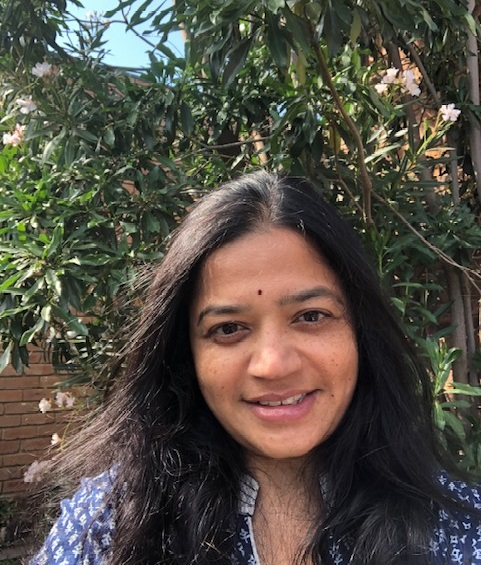
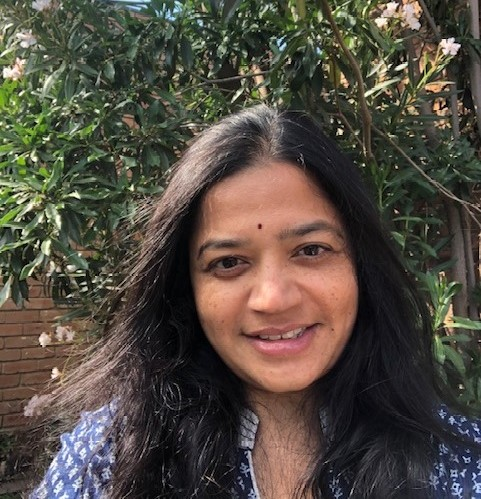
photos updated

diff --git a/index.html b/index.html
@@ -144,7 +144,7 @@
                             <li><a href="https://ranjithasuresh.com/" target="_blank" class="button">Learn More</a></li>
                         </ul>
                     </div>
-                    <span class="image"><img src="images/Guru1.jpg" alt="Ranjitha Suresh" /></span>
+                    <span class="image"><img src="images/Guru2.jpg" alt="Ranjitha Suresh" /></span>
                 </div>
             </section>
 
@@ -221,18 +221,18 @@
                 </header>
                 <ul class="features">
                     <li>
-                        <img src="images/sitar.png" alt="Sitar Icon" class="icon major style1">
+                        <img src="images/sitar1.jpg" alt="Sitar Icon" class="icon major style1">
                         <h3>Bhaithak - Student Recital Series</h3>
                         <p>Held three times a year to encourage students to showcase their learning and develop skills in raag presentation, stage presence, and confidence. Every student is required to perform at least once a year.</p>
                     </li>
                     <li>
-                        <img src="images/tabla.png" alt="Mridangam Icon" class="icon major style3">
+                        <img src="images/harmonium.jpg" alt="Mridangam Icon" class="icon major style3">
                         <h3>Annual concerts</h3>
                         <p>Features an eminent artist from India alongside performances by a local artist and students of the Naadasonic Foundation. Offers students a chance to learn from top artists and celebrate culture through performance, organization,
                             and community involvement.</p>
                     </li>
                     <li>
-                        <img src="images/harmonium.png" alt="Flute Icon" class="icon major style5">
+                        <img src="images/tabala.jpg" alt="Flute Icon" class="icon major style5">
                         <h3>Bhava-Teera-Yaana</h3>
                         <p>A special event showcasing Ranjitha's passion for Bhavageethe, a genre of emotional, poetic music popular in Karnataka. Performed regularly in Melbourne, bringing this cherished art form to an interested audience.</p>
                     </li>
